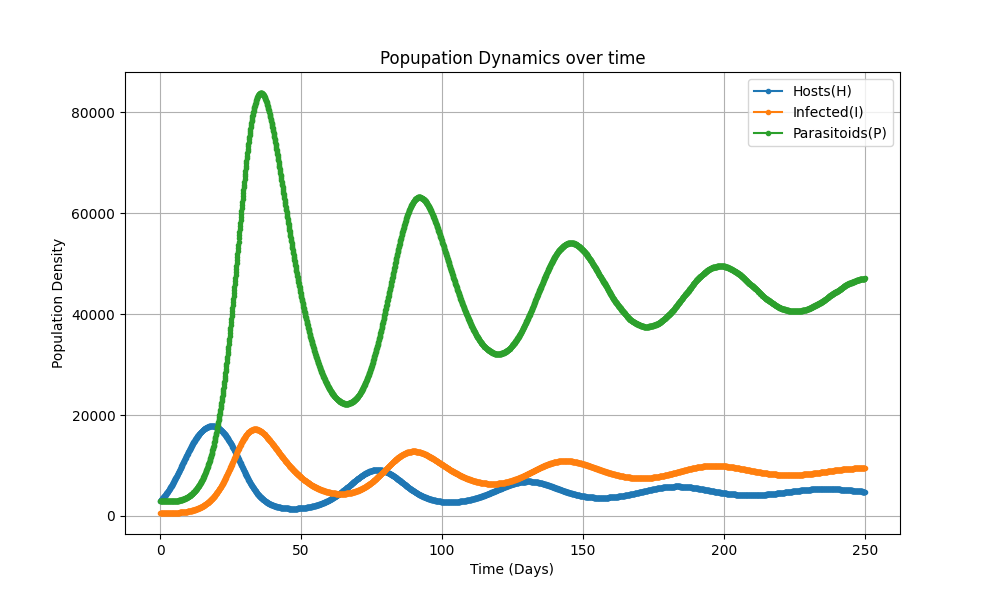
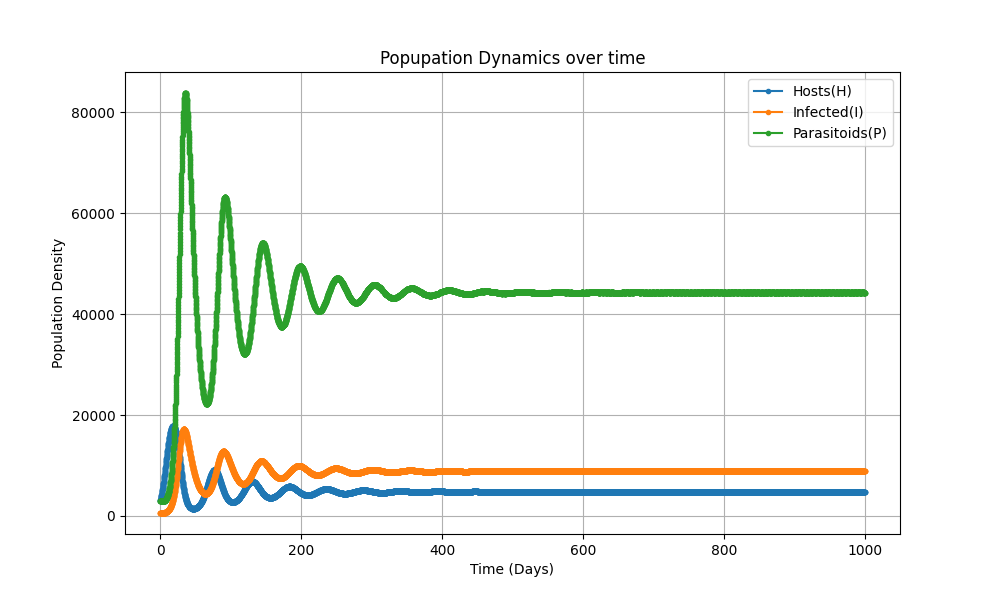
feat: simulações 1000 dias 100/dia

diff --git a/src/main/rafikov/main.py b/src/main/rafikov/main.py
@@ -1,6 +1,6 @@
 import sys
-# sys.path.append('/home/bolsistas/.alx/populationDynamics-validation/src/main')
-sys.path.append('/home/alx/Projetos/populationDynamics-validation/src/main')
+sys.path.append('/home/bolsistas/.alx/populationDynamics-validation/src/main')
+# sys.path.append('/home/alx/Projetos/populationDynamics-validation/src/main')
 from scipy.integrate import solve_ivp
 import numpy as np
 from time import time
@@ -57,5 +57,11 @@ def rafikov(parameters: Param, days: int, instantsPerDay: int)-> None:
    plotGraph(time_points, params, f'rafikov-{parameters.equilibrium.description}')
 
 
+param = Param(Equilibrium.FIRST)
+rafikov(param, 1000, 10)
+
 param = Param(Equilibrium.SECOND)
-rafikov(param, 250, 10)
+rafikov(param, 1000, 10)
+
+param = Param(Equilibrium.THIRD)
+rafikov(param, 1000, 10)
